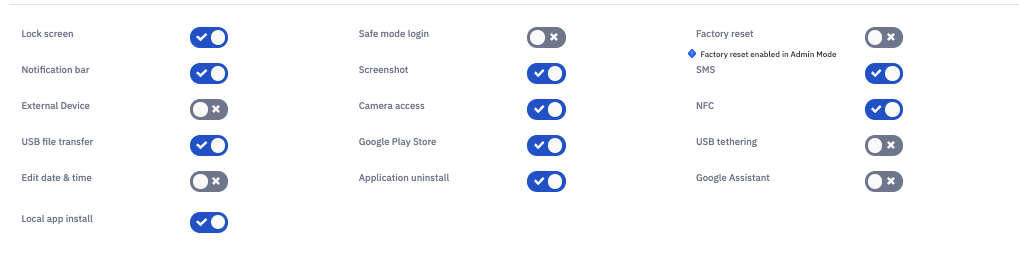
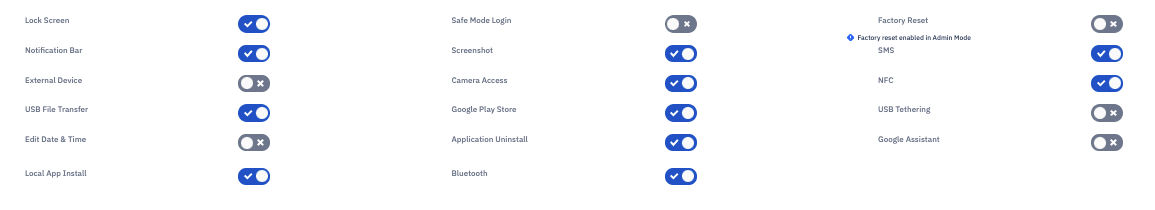
description for the new bluetooth toggle button.

diff --git a/docs/compliance-policy/create-policy.md b/docs/compliance-policy/create-policy.md
@@ -261,6 +261,10 @@ This feature allows the installation of applications from unknown sources on the
 
 For example, if the device user chooses Chrome, they will be able to download and install applications from the Chrome browser on the device. If turned Off, the device user will not be allowed to install applications from any unknown sources.
 
+### Bluetooth setting via Policy
+If you would like the device user to use bluetooth on the device, set the bluetooth toggle button to On; if you don’t, set it to Off.
+
+
 ![Toggle buttons](./images/createpolicy/13-radiosettings.png)
 
 ### Allow List Configuration for Incoming and Outgoing Calls via Policy
